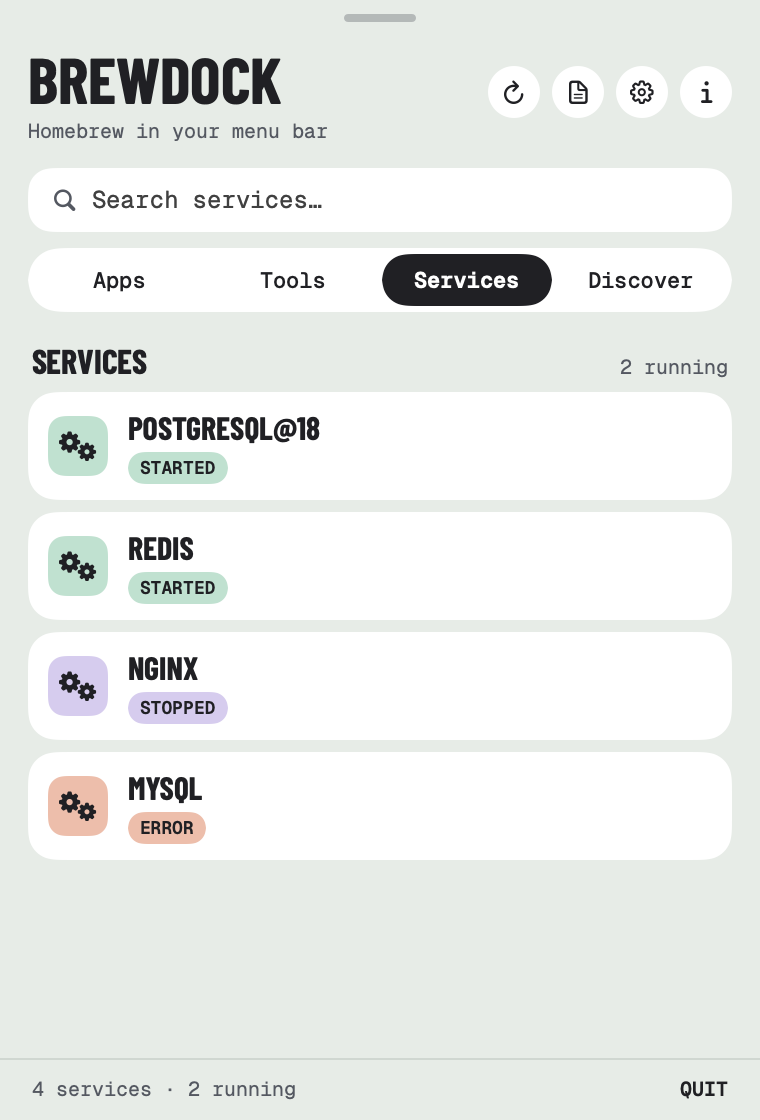
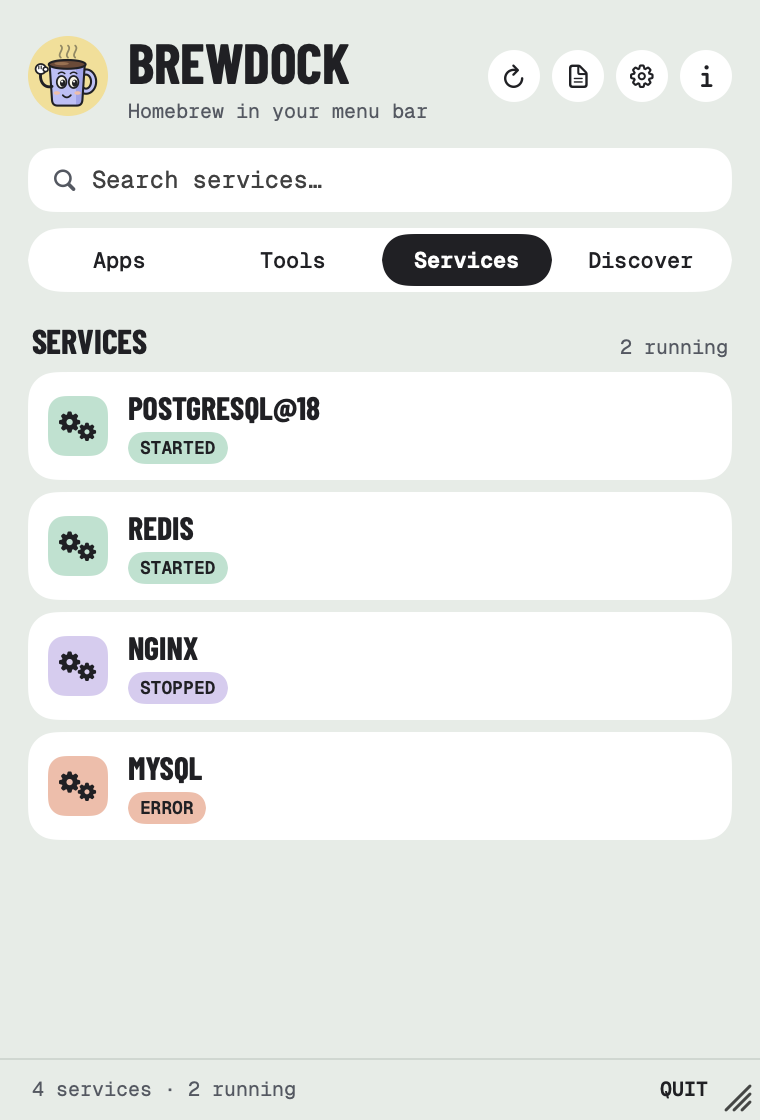
Docs: new screenshots, update checks for DMG installs, HouseStyle credit

diff --git a/BrewDockTests/ScreenshotTests.swift b/BrewDockTests/ScreenshotTests.swift
@@ -44,18 +44,26 @@ final class ScreenshotTests: XCTestCase {
             BrewPackage(name: "wget", version: "1.25.0", type: .formula),
             BrewPackage(name: "openssl@3", version: "3.4.0", type: .formula, isDependency: true),
         ]
+        service.services = [
+            HomebrewService(name: "postgresql@18", status: .started, user: "ross"),
+            HomebrewService(name: "redis", status: .started, user: "ross"),
+            HomebrewService(name: "nginx", status: .stopped, user: ""),
+            HomebrewService(name: "mysql", status: .error, user: "ross"),
+        ]
         return service
     }
 
     func testRenderPanel() throws {
-        let size = AppDelegate.panelDefaultSize
+        // The website's shots are a little taller than the panel opens at
+        let size = NSSize(width: AppDelegate.panelDefaultSize.width, height: 560)
         for dark in [false, true] {
             let service = sampleService()
             try Snapshot.panel(dark: dark, size: size, to: out.appendingPathComponent(dark ? "panel-dark.png" : "panel-apps.png")) {
                 MenuBarView().environmentObject(service)
             }
         }
-        for (tab, name) in [(MenuBarView.Tab.tools, "panel-tools"), (.discover, "panel-discover")] {
+        for (tab, name) in [(MenuBarView.Tab.tools, "panel-tools"), (.services, "panel-services"),
+                            (.discover, "panel-discover")] {
             let service = sampleService()
             try Snapshot.panel(size: size, to: out.appendingPathComponent("\(name).png")) {
                 MenuBarView(initialTab: tab).environmentObject(service)

diff --git a/README.md b/README.md
@@ -88,7 +88,7 @@ BrewDock checks for new versions of itself. Open **Settings → Check for update
 - **Homebrew 7 trusted taps:** if Homebrew refuses a package from a tap you haven't trusted, BrewDock tells you which one, and asks before trusting it.
 
 ### Native and light
-100% SwiftUI, with no Electron. It has light and dark mode, VoiceOver support, and a small mug who waves hello. Want more room? Drag the grip in the panel's bottom-right corner to make it bigger.
+100% SwiftUI, with no Electron. It has light and dark mode, VoiceOver support, and a small mug who waves hello. Want more room? Drag the grip in the panel's bottom-right corner to make it bigger; BrewDock remembers the size.
 
 <table>
   <tr>
@@ -159,6 +159,7 @@ The `.xcodeproj` is generated from `project.yml`, so re-run `xcodegen generate` 
 |---|---|
 | `make test` | Run the unit tests |
 | `make check-catalog` | Check the Discover catalog against Homebrew for renamed or retired packages (also runs weekly in CI) |
+| `make screenshots` | Render the panel and popovers with sample packages into `build/screenshots` |
 | `make release VERSION=x.y.z` | Ship a release; see [RELEASING.md](RELEASING.md) |
 
 Bug reports, feature ideas and pull requests are welcome. [Open an issue](https://github.com/RossNicholson/brewdock/issues) to start.
@@ -179,4 +180,4 @@ If BrewDock saves you time, you can [buy me a coffee](https://buymeacoffee.com/r
 
 GPL-3.0. See [LICENSE](LICENSE).
 
-The bundled fonts, Barlow Condensed and Geist Mono, are under the SIL Open Font License (see `BrewDock/Fonts`). Homebrew is a separate project and isn't affiliated with BrewDock.
+The look and the menu bar panel come from [HouseStyle](https://github.com/RossNicholson/mac-house-style) (MIT), shared with my other Mac apps, ClawdBar and Mop Up. Its bundled fonts, Barlow Condensed and Geist Mono, are under the SIL Open Font License. Homebrew is a separate project and isn't affiliated with BrewDock.
